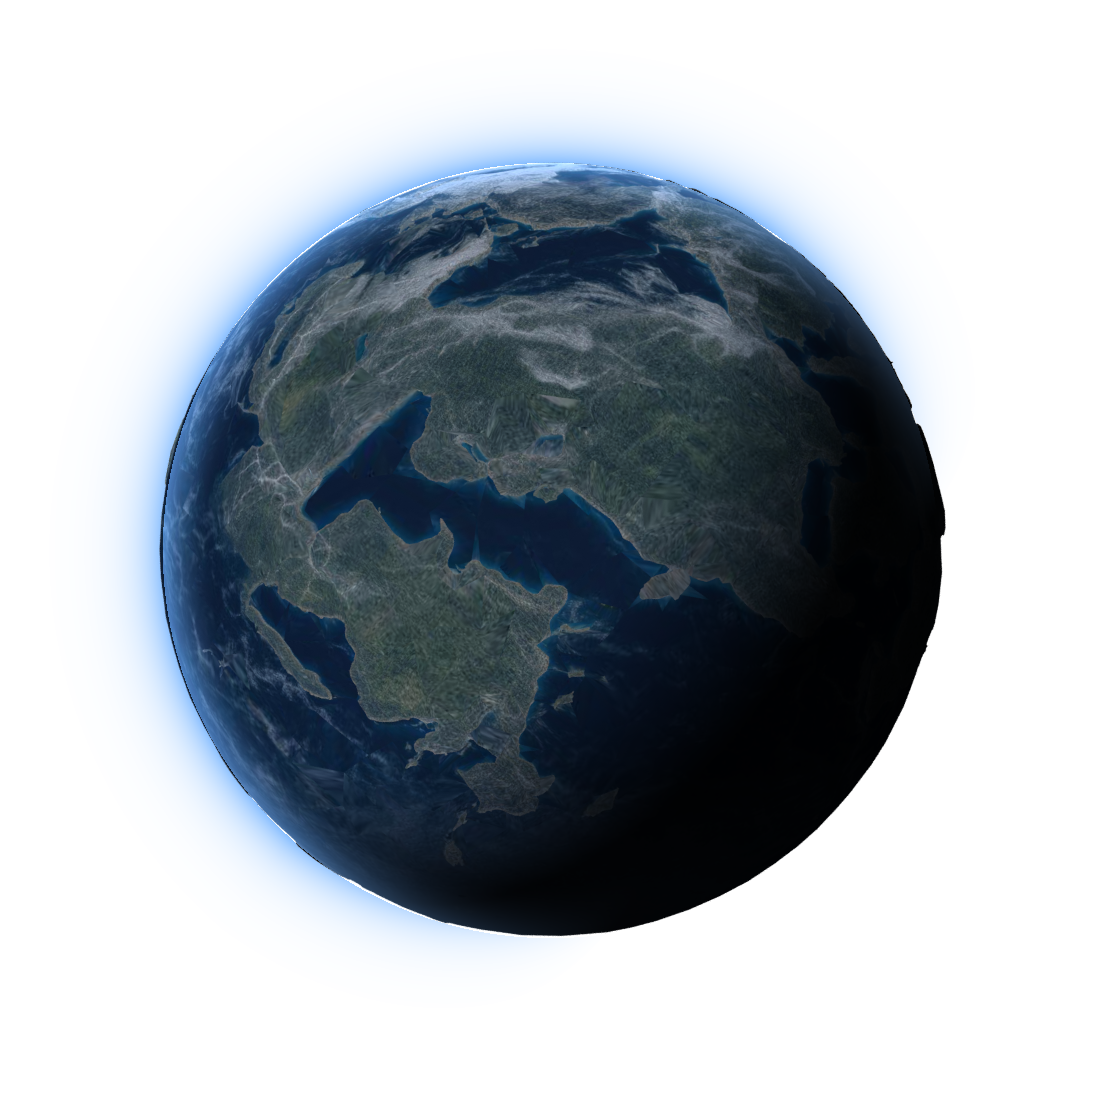
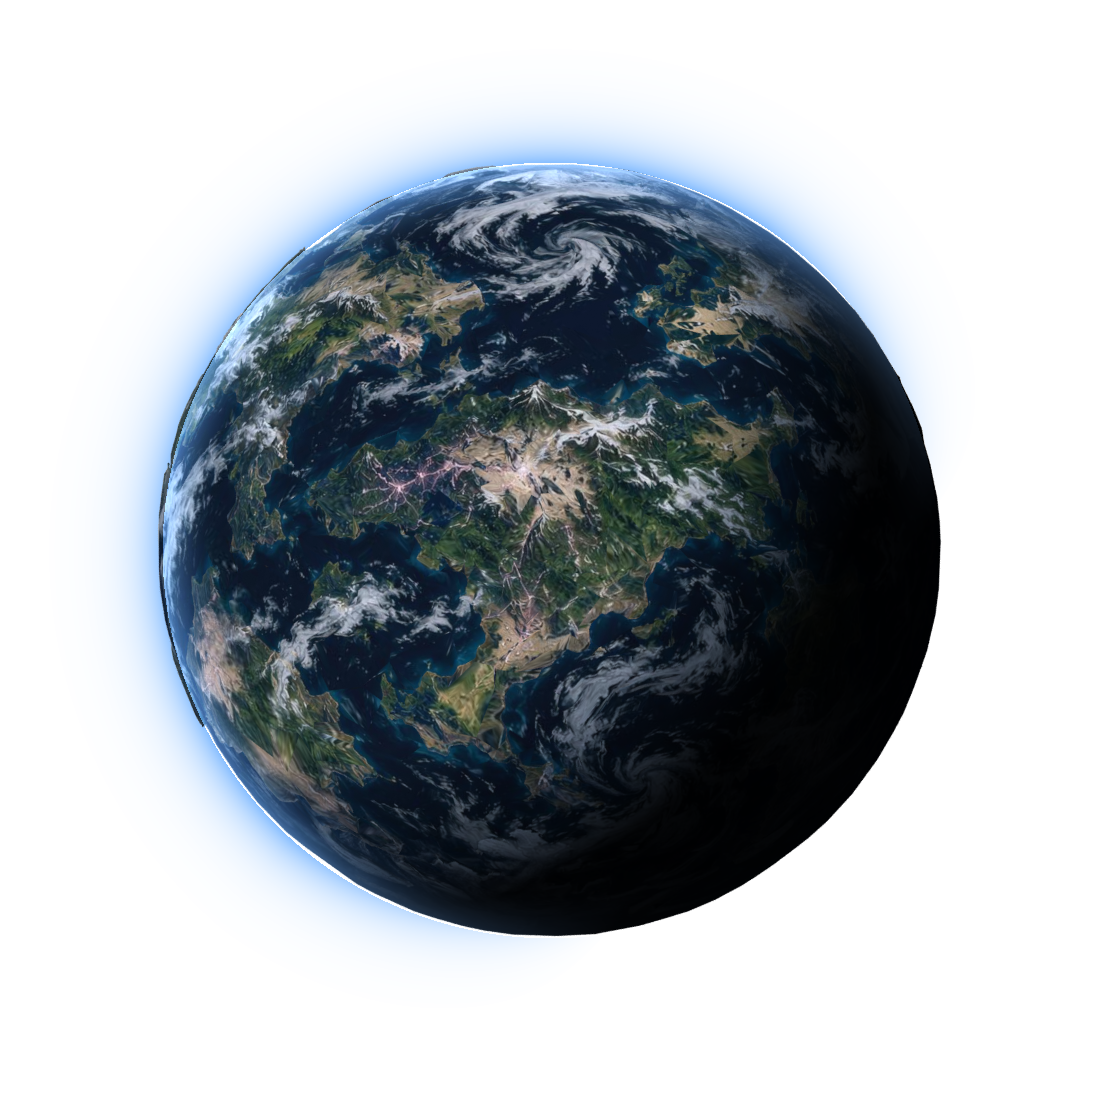
Intro planet: turn the pink-cracked side toward the camera (#46)
The old rotation put the planet's only alien feature, a patch of glowing
pink cracks, on the far side, so the intro showed an Earth clone. The
planet now turns those cracks to just left of centre on the day side.
Light, rim, framing and the ship's impact point are unchanged.

Claude-Session: https://claude.ai/code/session_01EfFWxYZSpdDy5Az68D7wGu

diff --git a/tools/cutscene/render_intro.py b/tools/cutscene/render_intro.py
@@ -129,7 +129,11 @@ def bake_planet(tmp):
     sc.cycles.samples = 64
     sc.cycles.samples = 16
     root = import_model(os.path.join(REPO, "art/models/Planet.glb"))
-    root.rotation_euler = Euler((math.radians(15), 0.0, math.radians(200)))
+    # Turn the side with the pink glowing cracks (the one thing that says
+    # "alien" on this model; on import they face -Y, toward the camera) to
+    # just left of the disc's centre, in the daylight. Facing away, the
+    # planet reads as an Earth clone (playtest, issue #46).
+    root.rotation_euler = Euler((math.radians(-5), 0.0, math.radians(353)))
     # Flat colour only (texture as emission): the light is added below from
     # the sphere's normals, where the day side and terminator can be placed
     # exactly.

diff --git a/docs/design/DECISIONS.md b/docs/design/DECISIONS.md
@@ -21,6 +21,25 @@ decision goes against a pillar or a design doc, say so plainly in **Why**.
 
 ---
 
+## 2026-11-24: Crash intro shows the planet's pink-cracked side
+- **Decision** (requested by a human, issue #46, playtest 2026-11-22): the
+  intro planet is turned so the side with the glowing pink cracks faces the
+  camera, just left of the disc's centre on the day side (rotation
+  X -5°, Z 353°, was X 15°, Z 200°). The light, rim, framing and the ship's
+  impact point (lower right, night side) are unchanged.
+- **Pillars:** Clarity / tone: the first frame of a match reads as an alien
+  world, not an Earth clone. No other pillar is affected.
+- **Why:** The cracks are one small patch of the Meshy texture; the old
+  rotation put them on the far side. They were placed on the lit side
+  rather than near the impact point, because the impact is on the night
+  side where they would be lost in shadow. The patch is small, roughly 60 to 100 px
+  across on a 1440 x 810 screen, so it reads but is subtle. If it should
+  read more strongly, a follow-up could boost the pink in the bake or add a
+  glow; that was left alone here because the issue asked for orientation
+  only.
+- **Status:** Accepted (requested by a human)
+- **Where:** `tools/cutscene/render_intro.py`, `assets/cutscene/planet.png`
+
 ## 2026-11-23: Infusion grades step 2: the 32 Refined and Exalted effects
 - **Decision** (requested by a human: "move to step 2" of issue #44): every
   genus now has a Refined and an Exalted effect in every tree, as tabled in
